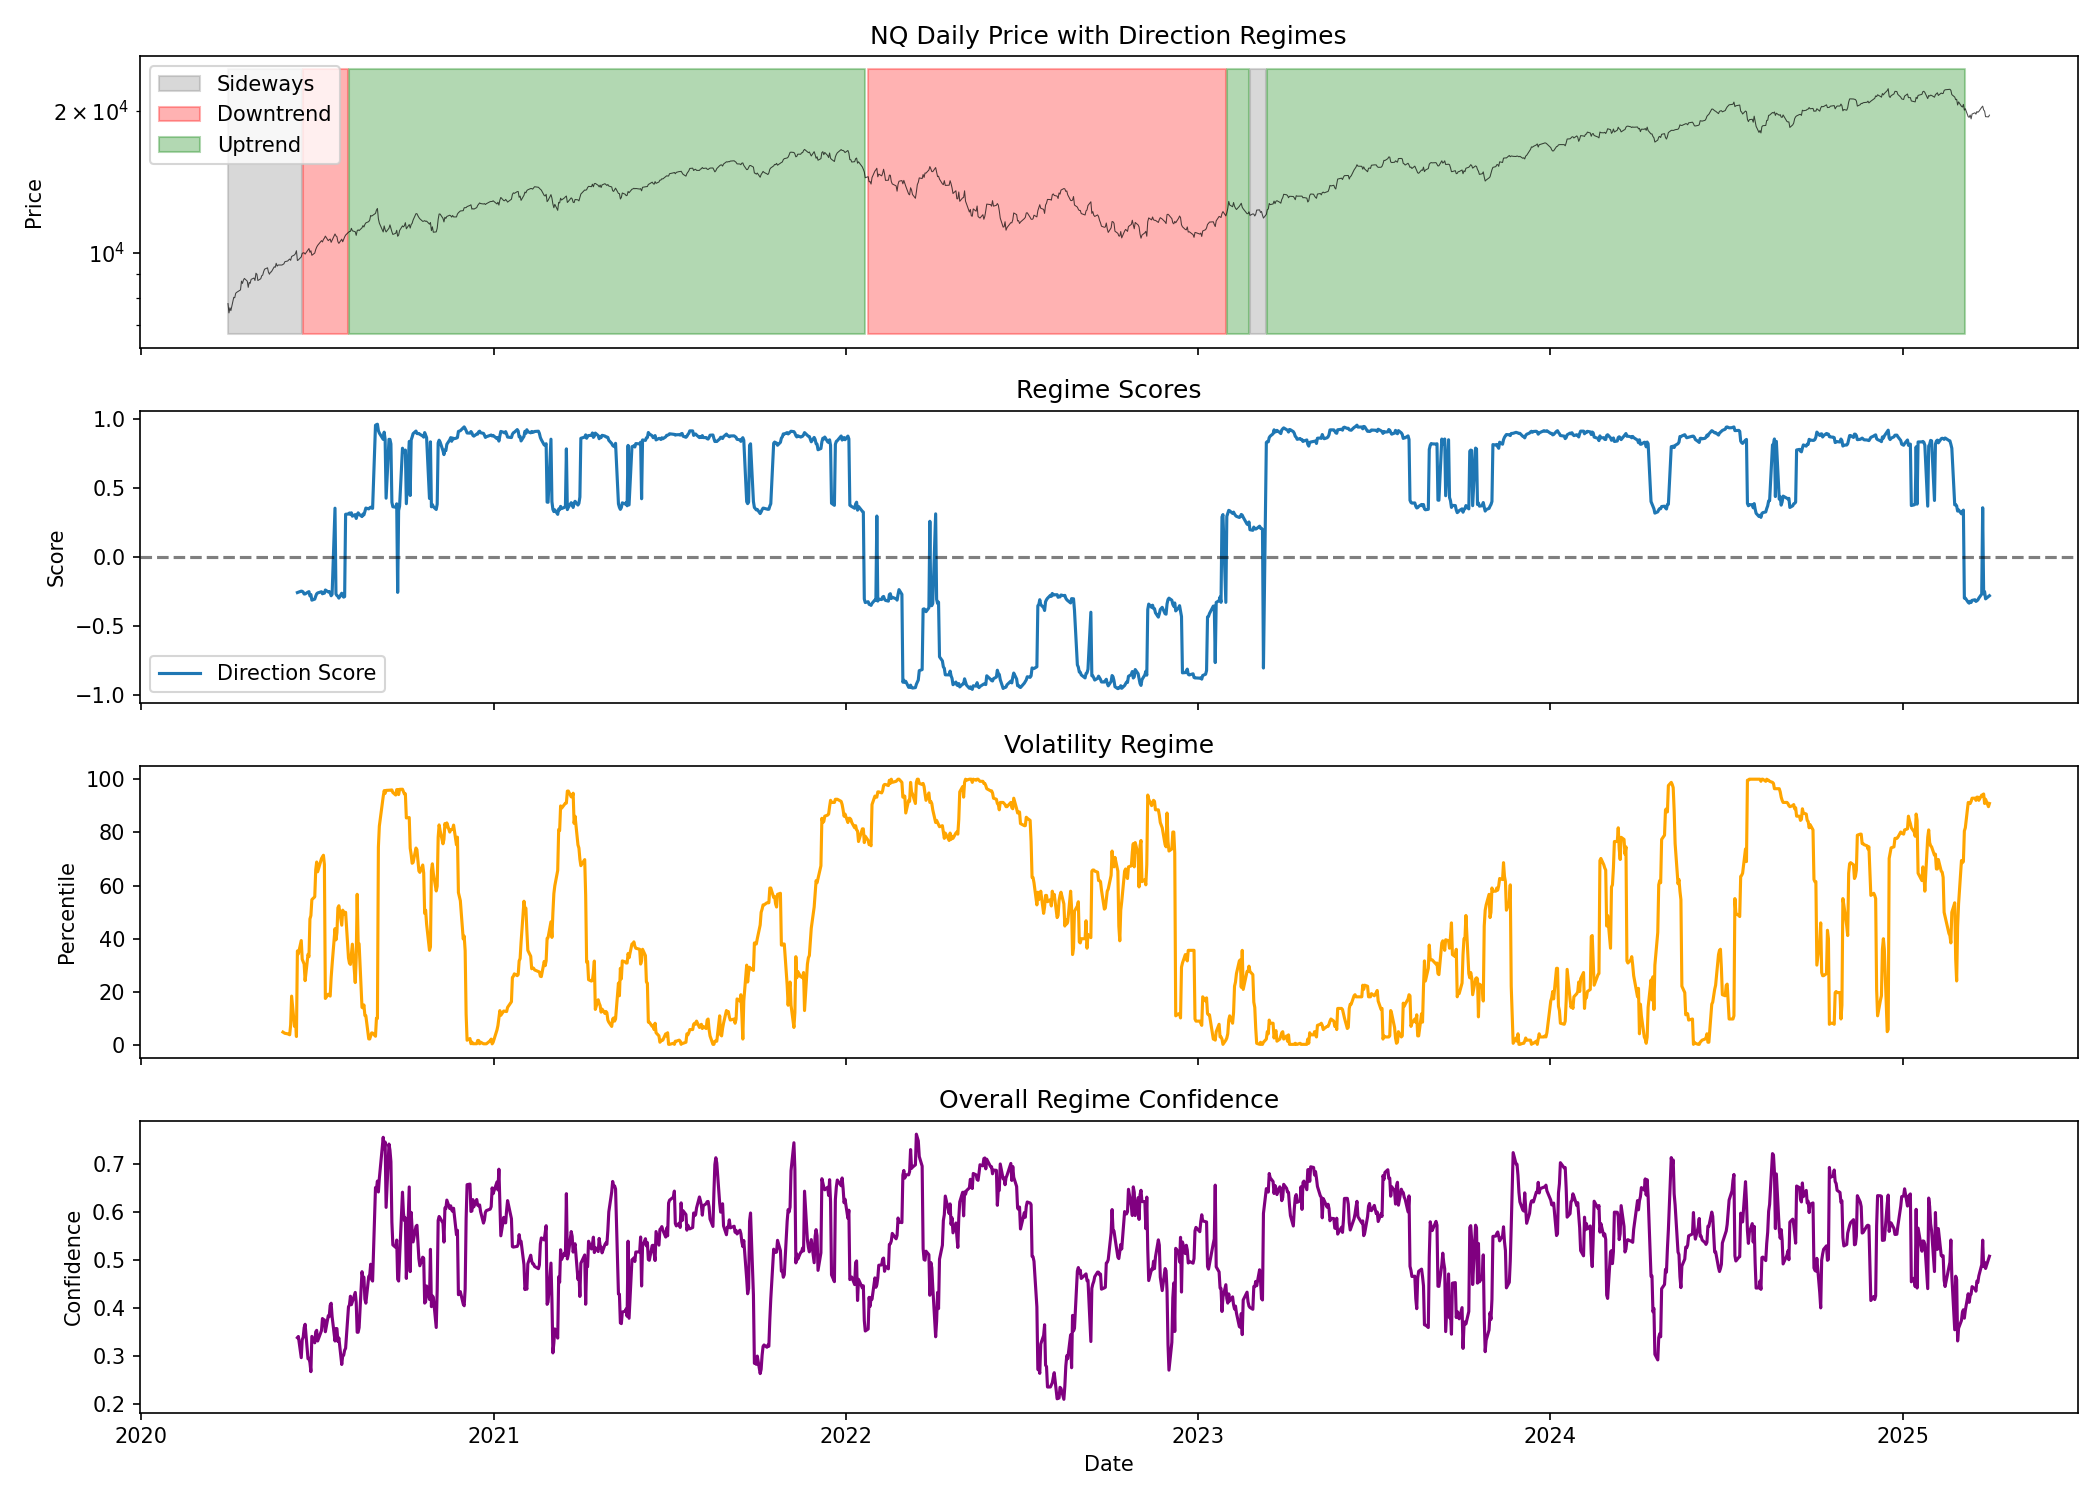
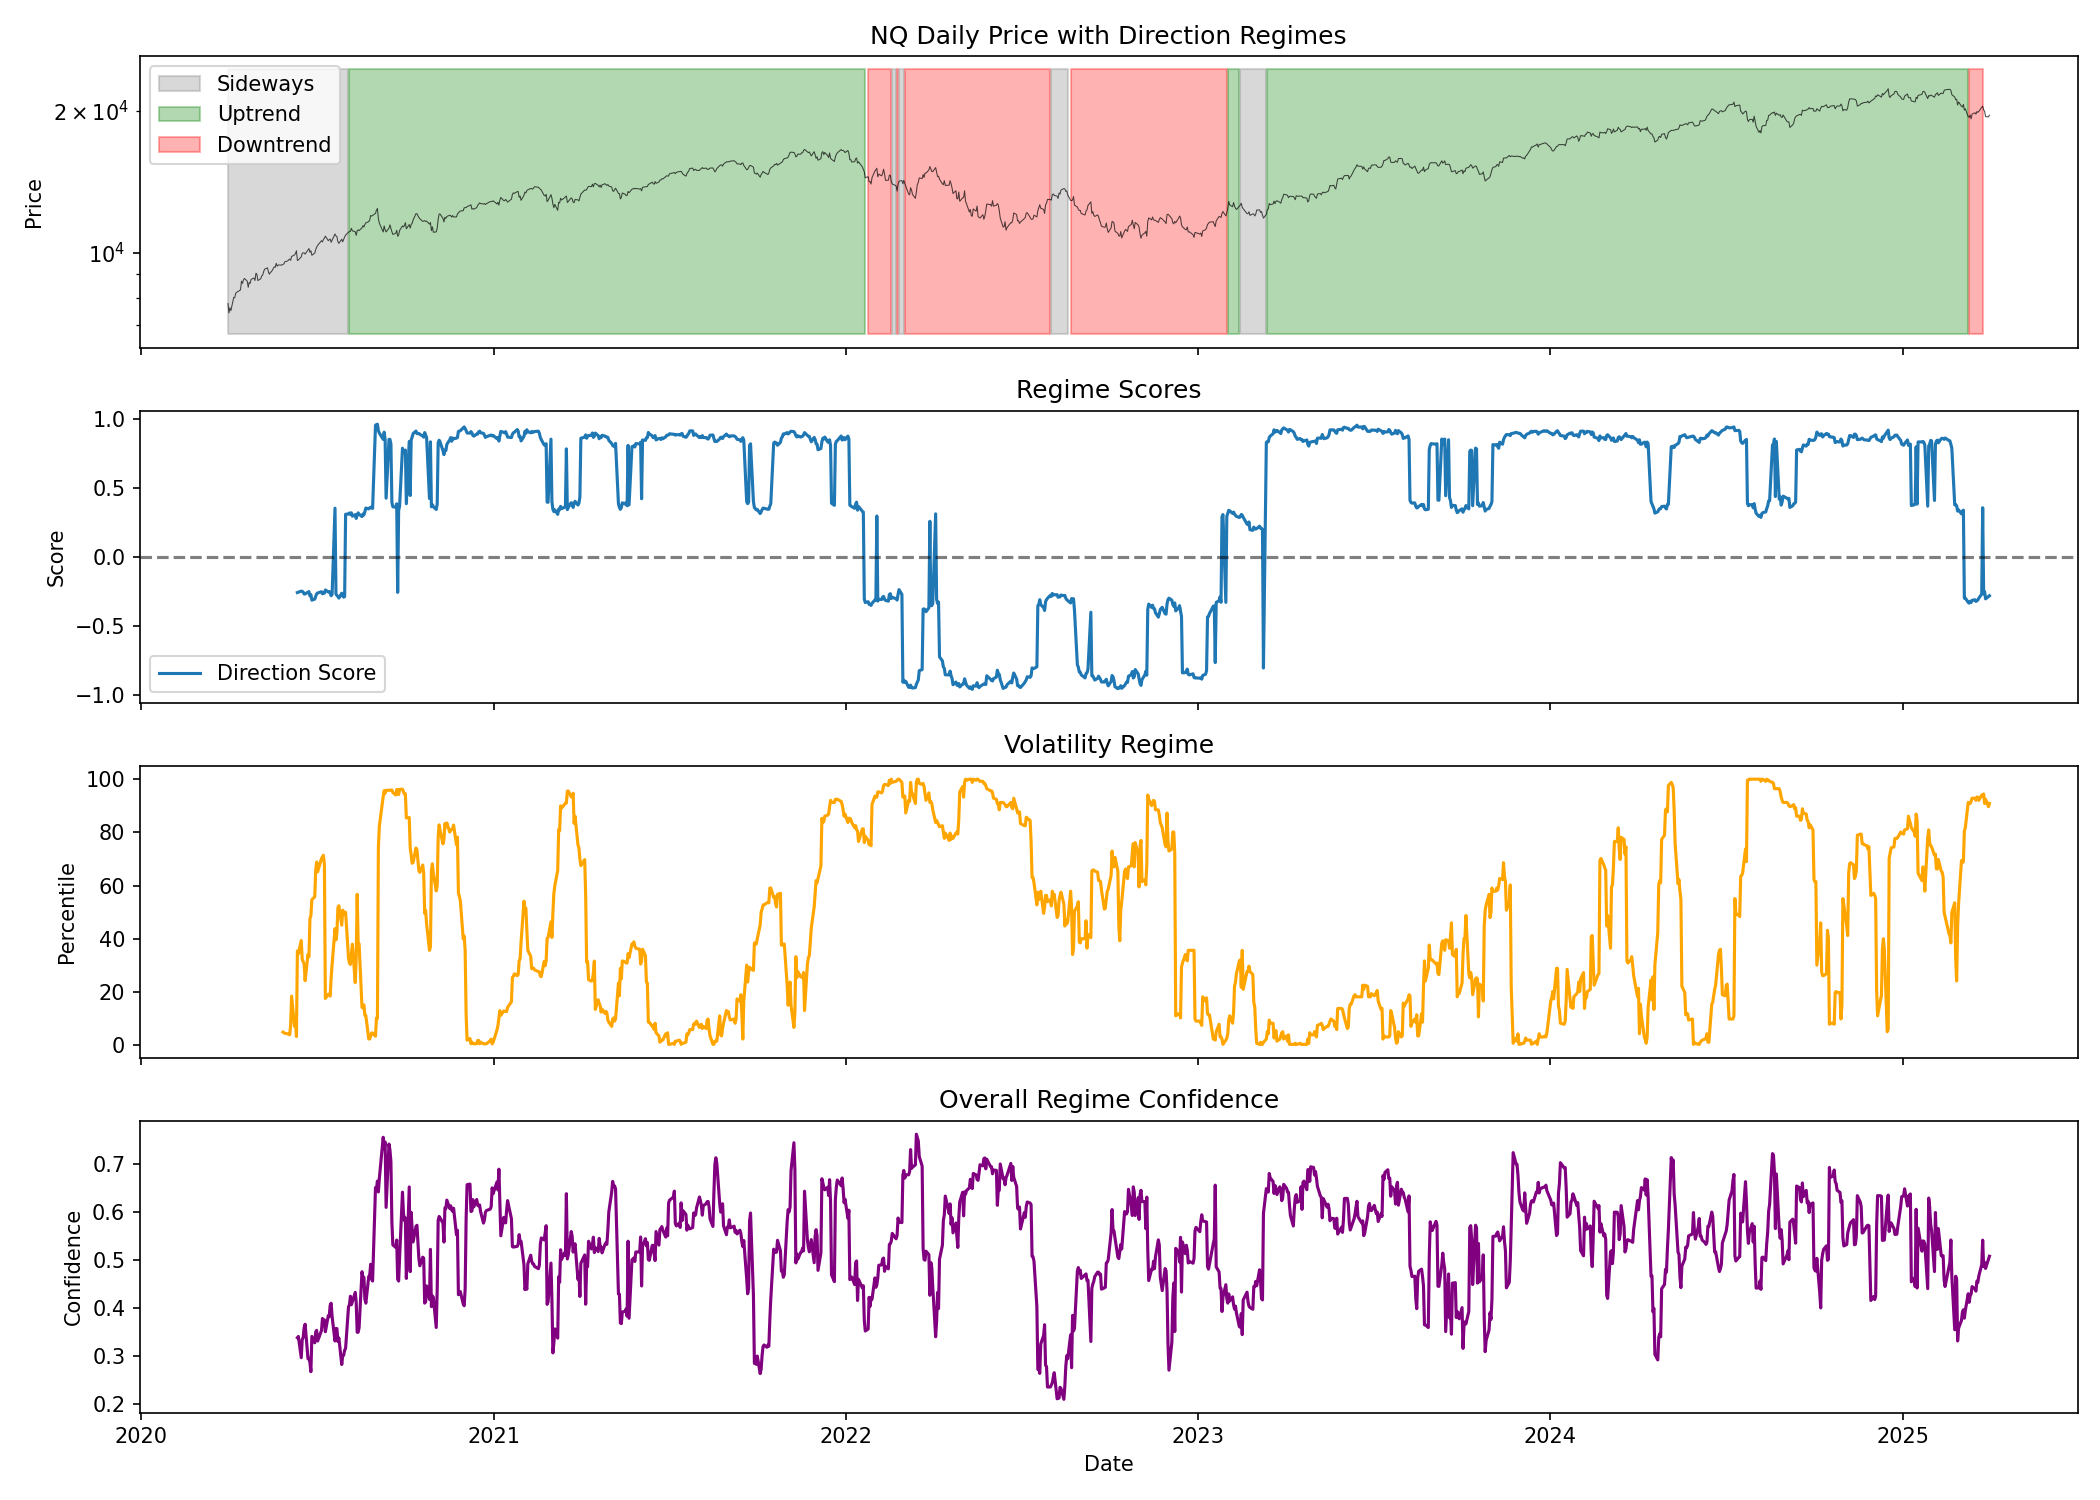
Auto-save-daily_regime_classifier

diff --git a/ob_model/v2.0_precloud_reorganization_and_clean/daily_regime_classifier.py b/ob_model/v2.0_precloud_reorganization_and_clean/daily_regime_classifier.py
@@ -83,7 +83,7 @@ class NQDailyRegimeClassifier:
             
             # Smoothing - keep at 5
             'min_regime_days': 3,
-            'smoothing_days': 5,
+            'smoothing_days': 7,
         }
         
         # Define regime mappings
